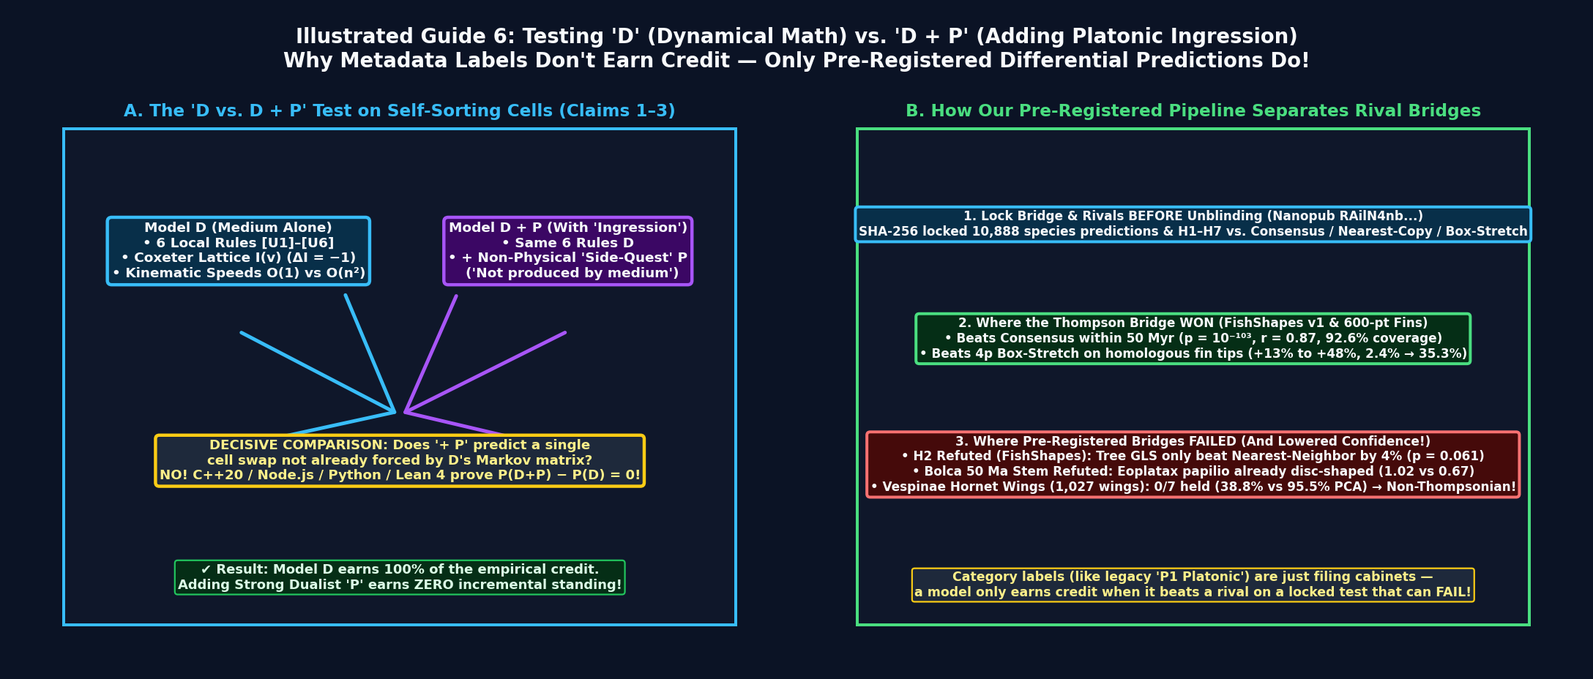
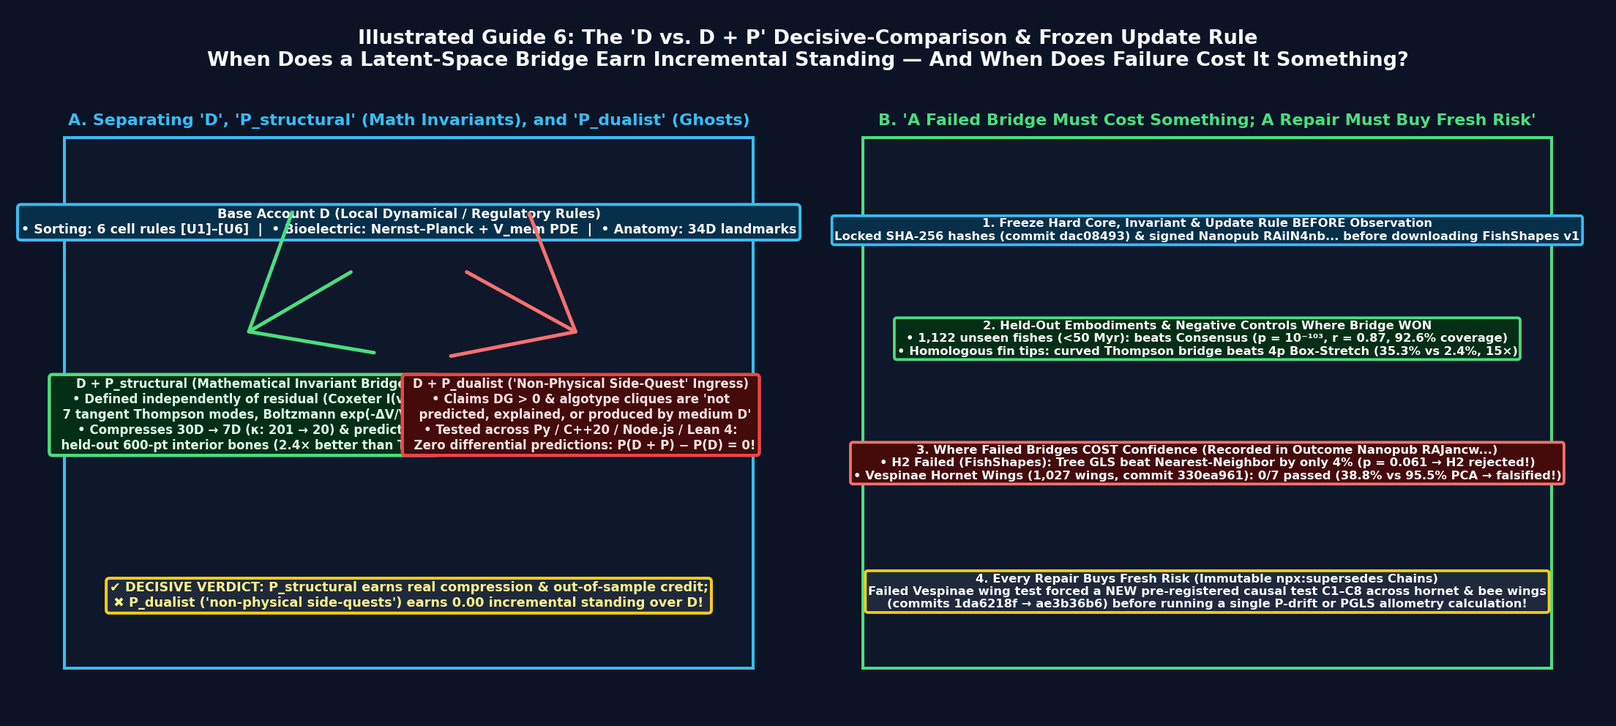
Update Illustrated Guide 6 & Substack article with full D vs. D+P_structural vs. D+P_dualist and Frozen Update Rule / Fresh Risk response

Changed region(s): [[0.0, 0.1562, 1.0, 0.9062], [0.125, 0.0312, 0.875, 0.125]]

diff --git a/sorting-morphogenesis/render_13yo_illustrations.py b/sorting-morphogenesis/render_13yo_illustrations.py
@@ -520,84 +520,81 @@ def render_fig5_causal_emergence_13yo():
 
 def render_fig6_decisive_comparison_d_vs_dp():
     """
-    Illustrated Guide 6: Answering the 'D vs. D + P Decisive-Comparison' Challenge:
-      - Left (Lane A — Model D Alone): Dynamical / Regulatory / Geometric Medium D
-        (local cell rules, Nernst-Planck electrodiffusion, 8-knob Thompson coordinate
-        fields, Lyapunov descent).
-      - Center (The Incremental Bridge Test): Does adding a separate Platonic
-        Ingression hypothesis (+ P) make a single new, pre-registered quantitative
-        prediction that differs from D alone?
-      - Right (Two Real Outcomes from Our Pipeline):
-          1. On Sorting Arrays (Claims 1-3): D alone predicts 100% of the trajectory
-             (ΔI = -1, ΔCP = +0.119, C=2 anti-clustering 0.477). Incremental credit
-             for Strong Dualist P = 0.00!
-          2. On Pre-Registered Blind Tests (Claim 4, FishShapes v1 & Vespinae Wings):
-             We pre-registered H1-H7 (commit dac08493, Nanopub RAilN4nb...) BEFORE
-             downloading 5,180 unseen fish species (4/7 passed, p=10^-103; H2 failed
-             at p=0.061) and 30 hornet species (0/7 passed — falsified as non-Thompsonian!).
+    Illustrated Guide 6: Answering the 'D vs. D + P Decisive-Comparison' &
+    'Frozen Update Rule / Fresh Risk' Challenge:
+      - Left (Panel A — D vs. D + P on Sorting Arrays & Bioelectric Models):
+        Separates D (dynamical/regulatory rules) from P_struct (mathematical
+        invariants/symmetries of D that compress & predict held-out regimes)
+        and P_dualist ('unexplained non-physical side-quests' adding 0.00
+        incremental predictive power over D).
+      - Right (Panel B — The 5-Rule 'Frozen Update Rule' Checklist in Action):
+        1. Lock Hard Core & Bridge Before Observation (SHA-256 + Nanopub RAilN4nb...)
+        2. Define Invariants Independently of Residuals (7 tangent Thompson modes, I(v))
+        3. Held-Out Embodiments & Negative Controls (5,180 unseen fishes, 1,027 hornet wings)
+        4. Failed Bridges Cost Something (H2 p=0.061, Bolca Eoplatax, Vespinae 0/7)
+        5. Every Repair Buys Fresh Risk (npx:supersedes chains + C1-C8 wing causal tests)
     """
-    fig, axes = plt.subplots(1, 2, figsize=(13.6, 5.8), dpi=160, facecolor="#0b1325")
-    fig.subplots_adjust(wspace=0.18, left=0.04, right=0.96, top=0.81, bottom=0.08)
+    fig, axes = plt.subplots(1, 2, figsize=(13.8, 6.2), dpi=160, facecolor="#0b1325")
+    fig.subplots_adjust(wspace=0.16, left=0.04, right=0.96, top=0.81, bottom=0.08)
 
     fig.suptitle(
-        "Illustrated Guide 6: Testing 'D' (Dynamical Math) vs. 'D + P' (Adding Platonic Ingression)\n"
-        "Why Metadata Labels Don't Earn Credit — Only Pre-Registered Differential Predictions Do!",
-        color="#f8fafc", fontsize=12.4, fontweight="bold", y=0.96
+        "Illustrated Guide 6: The 'D vs. D + P' Decisive-Comparison & Frozen Update Rule\n"
+        "When Does a Latent-Space Bridge Earn Incremental Standing — And When Does Failure Cost It Something?",
+        color="#f8fafc", fontsize=12.2, fontweight="bold", y=0.96
     )
 
-    # Left panel: D vs D + P on Sorting Morphogenesis
+    # Left panel: D vs D + P_struct vs D + P_dualist
     ax0 = axes[0]
     ax0.set_facecolor("#0f172a")
-    ax0.set_xlim(0, 10); ax0.set_ylim(0, 6.5)
+    ax0.set_xlim(0, 10); ax0.set_ylim(0, 6.6)
     ax0.set_xticks([]); ax0.set_yticks([])
     for sp in ax0.spines.values():
         sp.set_color("#38bdf8"); sp.set_linewidth(1.8)
-    ax0.set_title("A. The 'D vs. D + P' Test on Self-Sorting Cells (Claims 1–3)", color="#38bdf8", fontsize=10.4, fontweight="bold", pad=8)
+    ax0.set_title("A. Separating 'D', 'P_structural' (Math Invariants), and 'P_dualist' (Ghosts)", color="#38bdf8", fontsize=10.0, fontweight="bold", pad=8)
 
     # Box D
-    ax0.text(2.6, 4.9, "Model D (Medium Alone)\n• 6 Local Rules [U1]–[U6]\n• Coxeter Lattice I(v) (ΔI = −1)\n• Kinematic Speeds O(1) vs O(n²)",
-             color="#f8fafc", fontsize=8.3, fontweight="bold", ha="center", va="center",
-             bbox=dict(boxstyle="round,pad=0.32", facecolor="#082f49", edgecolor="#38bdf8", lw=2.0))
-    # Box D + P
-    ax0.text(7.5, 4.9, "Model D + P (With 'Ingression')\n• Same 6 Rules D\n• + Non-Physical 'Side-Quest' P\n  ('Not produced by medium')",
-             color="#f8fafc", fontsize=8.3, fontweight="bold", ha="center", va="center",
-             bbox=dict(boxstyle="round,pad=0.32", facecolor="#3b0764", edgecolor="#a855f7", lw=2.0))
+    ax0.text(5.0, 5.55, "Base Account D (Local Dynamical / Regulatory Rules)\n• Sorting: 6 cell rules [U1]–[U6]  |  • Bioelectric: Nernst–Planck + V_mem PDE  |  • Anatomy: 34D landmarks",
+             color="#f8fafc", fontsize=7.9, fontweight="bold", ha="center", va="center",
+             bbox=dict(boxstyle="round,pad=0.28", facecolor="#082f49", edgecolor="#38bdf8", lw=1.8))
 
-    ax0.annotate("", xy=(5.0, 2.75), xytext=(2.6, 3.85), arrowprops=dict(arrowstyle="->,head_length=6,head_width=5", color="#38bdf8", lw=2.2))
-    ax0.annotate("", xy=(5.0, 2.75), xytext=(7.5, 3.85), arrowprops=dict(arrowstyle="->,head_length=6,head_width=5", color="#a855f7", lw=2.2))
+    # Branch Left: D + P_structural (Earns Credit!)
+    ax0.annotate("", xy=(2.6, 4.15), xytext=(4.2, 4.95), arrowprops=dict(arrowstyle="->,head_length=6,head_width=5", color="#4ade80", lw=2.2))
+    ax0.text(2.6, 3.15, "D + P_structural (Mathematical Invariant Bridge)\n• Defined independently of residual (Coxeter I(v),\n  7 tangent Thompson modes, Boltzmann exp(-ΔV/V_T))\n• Compresses 30D → 7D (κ: 201 → 20) & predicts\n  held-out 600-pt interior bones (2.4× better than TPS!)",
+             color="#dcfce7", fontsize=7.5, fontweight="bold", ha="center", va="center",
+             bbox=dict(boxstyle="round,pad=0.28", facecolor="#052e16", edgecolor="#4ade80", lw=2.0))
 
-    ax0.text(5.0, 2.15, "DECISIVE COMPARISON: Does '+ P' predict a single\ncell swap not already forced by D's Markov matrix?\nNO! C++20 / Node.js / Python / Lean 4 prove P(D+P) − P(D) = 0!",
-             color="#fef08a", fontsize=8.2, fontweight="bold", ha="center", va="center",
-             bbox=dict(boxstyle="round,pad=0.28", facecolor="#1e293b", edgecolor="#facc15", lw=2.0))
+    # Branch Right: D + P_dualist (Zero Incremental Standing!)
+    ax0.annotate("", xy=(7.5, 4.15), xytext=(5.8, 4.95), arrowprops=dict(arrowstyle="->,head_length=6,head_width=5", color="#f87171", lw=2.2))
+    ax0.text(7.5, 3.15, "D + P_dualist ('Non-Physical Side-Quest' Ingress)\n• Claims DG > 0 & algotype cliques are 'not\n  predicted, explained, or produced by medium D'\n• Tested across Py / C++20 / Node.js / Lean 4:\n  Zero differential predictions: P(D + P) − P(D) = 0!",
+             color="#fee2e2", fontsize=7.5, fontweight="bold", ha="center", va="center",
+             bbox=dict(boxstyle="round,pad=0.28", facecolor="#450a0a", edgecolor="#ef4444", lw=2.0))
 
-    ax0.text(5.0, 0.62, "✔ Result: Model D earns 100% of the empirical credit.\nAdding Strong Dualist 'P' earns ZERO incremental standing!",
-             color="#dcfce7", fontsize=8.1, fontweight="bold", ha="center", va="center",
-             bbox=dict(boxstyle="round,pad=0.22", facecolor="#052e16", edgecolor="#22c55e"))
+    ax0.text(5.0, 0.90, "✔ DECISIVE VERDICT: P_structural earns real compression & out-of-sample credit;\n✖ P_dualist ('non-physical side-quests') earns 0.00 incremental standing over D!",
+             color="#fef08a", fontsize=8.0, fontweight="bold", ha="center", va="center",
+             bbox=dict(boxstyle="round,pad=0.25", facecolor="#1e293b", edgecolor="#facc15", lw=1.8))
 
-    # Right panel: Pre-Registered Rival Bridges & Falsification in Project Delphi
+    # Right panel: The 5-Rule Frozen Update Protocol in Action
     ax1 = axes[1]
     ax1.set_facecolor("#0f172a")
-    ax1.set_xlim(0, 10); ax1.set_ylim(0, 6.5)
+    ax1.set_xlim(0, 10); ax1.set_ylim(0, 6.6)
     ax1.set_xticks([]); ax1.set_yticks([])
     for sp in ax1.spines.values():
         sp.set_color("#4ade80"); sp.set_linewidth(1.8)
-    ax1.set_title("B. How Our Pre-Registered Pipeline Separates Rival Bridges", color="#4ade80", fontsize=10.4, fontweight="bold", pad=8)
+    ax1.set_title("B. 'A Failed Bridge Must Cost Something; A Repair Must Buy Fresh Risk'", color="#4ade80", fontsize=10.0, fontweight="bold", pad=8)
 
     rows = [
-        (5.25, "1. Lock Bridge & Rivals BEFORE Unblinding (Nanopub RAilN4nb...)",
-         "SHA-256 locked 10,888 species predictions & H1–H7 vs. Consensus / Nearest-Copy / Box-Stretch", "#38bdf8", "#082f49"),
-        (3.75, "2. Where the Thompson Bridge WON (FishShapes v1 & 600-pt Fins)",
-         "• Beats Consensus within 50 Myr (p = 10⁻¹⁰³, r = 0.87, 92.6% coverage)\n• Beats 4p Box-Stretch on homologous fin tips (+13% to +48%, 2.4% → 35.3%)", "#4ade80", "#052e16"),
-        (2.10, "3. Where Pre-Registered Bridges FAILED (And Lowered Confidence!)",
-         "• H2 Refuted (FishShapes): Tree GLS only beat Nearest-Neighbor by 4% (p = 0.061)\n• Bolca 50 Ma Stem Refuted: Eoplatax papilio already disc-shaped (1.02 vs 0.67)\n• Vespinae Hornet Wings (1,027 wings): 0/7 held (38.8% vs 95.5% PCA) → Non-Thompsonian!", "#f87171", "#450a0a"),
+        (5.45, "1. Freeze Hard Core, Invariant & Update Rule BEFORE Observation",
+         "Locked SHA-256 hashes (commit dac08493) & signed Nanopub RAilN4nb... before downloading FishShapes v1", "#38bdf8", "#082f49"),
+        (4.10, "2. Held-Out Embodiments & Negative Controls Where Bridge WON",
+         "• 1,122 unseen fishes (<50 Myr): beats Consensus (p = 10⁻¹⁰³, r = 0.87, 92.6% coverage)\n• Homologous fin tips: curved Thompson bridge beats 4p Box-Stretch (35.3% vs 2.4%, 15×)", "#4ade80", "#052e16"),
+        (2.55, "3. Where Failed Bridges COST Confidence (Recorded in Outcome Nanopub RAJancw...)",
+         "• H2 Failed (FishShapes): Tree GLS beat Nearest-Neighbor by only 4% (p = 0.061 → H2 rejected!)\n• Vespinae Hornet Wings (1,027 wings, commit 330ea961): 0/7 passed (38.8% vs 95.5% PCA → falsified!)", "#f87171", "#450a0a"),
+        (0.95, "4. Every Repair Buys Fresh Risk (Immutable npx:supersedes Chains)",
+         "Failed Vespinae wing test forced a NEW pre-registered causal test C1–C8 across hornet & bee wings\n(commits 1da6218f → ae3b36b6) before running a single P-drift or PGLS allometry calculation!", "#facc15", "#1e293b"),
     ]
     for yp, head, body, ec, fc in rows:
-        ax1.text(5.0, yp, f"{head}\n{body}", color="#f8fafc", fontsize=7.6, fontweight="bold", ha="center", va="center",
-                 bbox=dict(boxstyle="round,pad=0.26", facecolor=fc, edgecolor=ec, lw=1.8))
-
-    ax1.text(5.0, 0.52, "Category labels (like legacy 'P1 Platonic') are just filing cabinets —\na model only earns credit when it beats a rival on a locked test that can FAIL!",
-             color="#fef08a", fontsize=7.8, fontweight="bold", ha="center", va="center",
-             bbox=dict(boxstyle="round,pad=0.2", facecolor="#1e293b", edgecolor="#facc15"))
+        ax1.text(5.0, yp, f"{head}\n{body}", color="#f8fafc", fontsize=7.35, fontweight="bold", ha="center", va="center",
+                 bbox=dict(boxstyle="round,pad=0.22", facecolor=fc, edgecolor=ec, lw=1.7))
 
     out = MEDIA / "zhang_13yo_fig6_decisive_comparison_d_vs_dp.png"
     fig.savefig(out, dpi=160, facecolor=fig.get_facecolor())

diff --git a/docs/SUBSTACK_LEVIN_LATENT_SPACE_ARTICLE.md b/docs/SUBSTACK_LEVIN_LATENT_SPACE_ARTICLE.md
@@ -303,40 +303,53 @@ Just as we did for our D’Arcy Thompson study, we documented the entire investi
 
 ---
 
-## Answering the "Decisive Comparison (`D` vs. `D + P`)" & "Legacy P1 Category" Critique
+## Answering the "Decisive Comparison (`D` vs. `D + P`)", "Legacy P1 Category" & "Frozen Update Rule" Critique
 
 In a thoughtful follow-up to my earlier comments, Nathan Sweet (*Sweet Rationalism*) laid out what he calls the **decisive-comparison requirement** for any predictive morphospace language:
 
-> *"Connect bioelectric states, downstream gene-expression changes, and morphology through independently specified relations. Record which edges reflect observations, interventions, model assumptions, and the additional ingress proposal... A useful graph encoding the same measured relations in `D` [the dynamical/regulatory medium] and `D + P` [adding a Platonic ingression proposal] first supports those relations. `P` earns incremental standing through the further result attributable to its addition. Choose feasible tests that separate the live alternatives, and specify beforehand which failure lowers confidence in the bridge or tested package... The publication category is not the experimental contrast. Project Delphi’s legacy `P1` example makes this distinction tangible. The record proposes perturbing or removing tissue and measuring anatomical restoration, while its metadata places the proposal in a Platonic-forms category. That label can organize the proposal’s intellectual setting. Recovery evidence first bears on the developmental capacity being tested; an independent source of forms earns further credit through a comparison that distinguishes its contribution from regulatory and organizational alternatives."*
+> *"Joel Dietz points in the right direction by proposing a predictive morphospace language connecting bioelectric patterns to downstream gene-expression cascades and morphology. A knowledge graph, however, can encode `D` or `D + P`. Platonic ingress begins earning evidence only when at least one `P`-specific relation improves held-out prediction, intervention, compression, or comparative model performance beyond the best `D`-only account.*
+>
+> *The decisive experiment would make `P` itself measurable at the edges: specify its hard core and bridge principle before observation; define a `P`-linked variable, topology, relation, or invariant independently of the residual; identify outcomes that materially separate `D + P` from serious rivals; use negative controls and held-out embodiments; replicate the advantage independently. Most important, freeze the update rule. A failed bridge must cost `P` something. A repair must buy fresh risk."*
 
-**We agree 100% with this methodological standard—and in fact, our repository’s infrastructure was built to execute that exact `D` vs. `D + P` test.**
+And on the legacy `P1` metadata category in Project Delphi:
+
+> *"The publication category is not the experimental contrast. Project Delphi’s legacy `P1` example makes this distinction tangible. The record proposes perturbing or removing tissue and measuring anatomical restoration, while its metadata places the proposal in a Platonic-forms category. That label can organize the proposal’s intellectual setting. Recovery evidence first bears on the developmental capacity being tested; an independent source of forms earns further credit through a comparison that distinguishes its contribution from regulatory and organizational alternatives."*
+
+**We agree 100% with every single one of those criteria—and in fact, our repository’s entire architecture was built to enforce that exact `D` vs. `D + P` protocol, including the frozen update rule.**
 
 ![](https://fractastical.github.io/morpholib/media/zhang_13yo_fig6_decisive_comparison_d_vs_dp.png)
-*Illustrated Guide 6: Testing `D` (Dynamical & Geometric Math Alone) vs. `D + P` (Adding Platonic Ingression), and how our cryptographically pre-registered Nanopublication pipeline separates rival bridges before unblinding.*
+*Illustrated Guide 6: Testing `D` (Local Dynamical Rules) vs. `D + P_structural` (Mathematical Invariants Defined Independently of Residuals) vs. `D + P_dualist` (Non-Physical Side-Quests), and how our cryptographically frozen Nanopublication update rule makes failed bridges cost confidence and repairs buy fresh risk.*
 
-Here is how the three points in that critique map directly onto the completed experiments in this repository:
+Let’s walk through Nathan’s five criteria one by one against the actual experiments in this repository:
 
 1. **Why "The Publication Category (`P1`) Is Not the Experimental Contrast":**
-   In early Project Delphi nanopublication schemas (`P1`), placing a regeneration experiment inside a `Platonic-forms` collection was a **bibliographic filing-cabinet tag** (grouping claims inspired by Levin’s papers), *not* an evidentiary proof that anatomical recovery comes from outside physics. As our current [`README.md`](https://github.com/fractastical/morpholib) and `sorting-morphogenesis/catalog.json` explicitly enforce, **recovery evidence first credits the dynamical/regulatory mechanism `D` (`1H1T`/`2H0T` Nernst–Planck bistability or Procrustes Lyapunov descent `dV/dt ≤ 0`)**. Slapping a "Platonic" metadata label on a dynamical equation does not give `P` a free ride on `D`’s predictive success.
+   In early Project Delphi nanopublication schemas (`P1`), placing a regeneration experiment inside a `Platonic-forms` collection was a **bibliographic filing-cabinet tag** (grouping claims inspired by Levin’s papers), *not* an evidentiary proof that anatomical recovery comes from outside physics. As our current [`README.md`](https://github.com/fractastical/morpholib) and 4-tier claim-boundary catalog (`sorting-morphogenesis/catalog.json`) explicitly enforce, **recovery evidence first credits the dynamical/regulatory mechanism `D` (`1H1T`/`2H0T` Nernst–Planck bistability or Procrustes Lyapunov descent `dV/dt ≤ 0`)**. Putting a "Platonic" metadata sticker on a differential equation never gives `P` a free ride on `D`’s empirical success.
 
-2. **Executing the `D` vs. `D + P` Test on Self-Sorting Arrays (`Incremental Standing of P = 0.00`):**
-   Look at **Panel A** of Illustrated Guide 6 above. In Zhang, Goldstein & Levin’s (2025) sorting arrays, we can test `D` (the 6 local comparison-swap rules `[U1]–[U6]`, the Coxeter inversion lattice `I(v)`, and `O(1)` vs. `O(n²)` kinematic speeds) head-to-head against `D + P` (adding a non-physical "side-quest" `P` claimed to be *"not predicted, explained, or produced by that medium"*).
-   * Does adding `+ P` predict a single cell swap, a single Delayed Gratification excursion, or a single chimeric cluster that is not already 100% forced by `D`’s Markov transition matrix?
-   * **No!** Our bit-exact ports across Python 3, C++20, Node.js, and Lean 4 prove that **`P(D + P) − P(D) = 0` (`0` cell mismatches)**. Thus, under the decisive-comparison rule, **Model `D` earns 100% of the empirical credit, and Strong Dualist Ingression `P` earns zero incremental standing.**
+2. **Separating `P_structural` (Mathematical Invariants Defined Independently of the Residual) from `P_dualist` ("Non-Physical Side-Quests"):**
+   Nathan writes that `P` begins earning evidence only when we *"define a `P`-linked variable, topology, relation, or invariant independently of the residual"* that *"improves held-out prediction, intervention, compression, or comparative model performance beyond the best `D`-only account."*
+   Look at **Panel A** of Illustrated Guide 6 above. Once we make that definition precise, `P` splits into two completely different hypotheses with opposite experimental outcomes:
+   * **`D + P_dualist` (Strong Dualist Ingression — "Side-Quests Not Produced by the Medium"): FAILS (`0.00` Incremental Standing).**
+     In *Ingressing Minds* (Sec. 6.3), Levin claims that Delayed Gratification (`DG > 0`) and chimeric algotype clustering are *"side-quests—not predicted, explained, or produced by that medium."* When we test `D + P_dualist` against `D` alone (the 6 local cell rules `[U1]–[U6]` in `Zhangtaining/cell_research@1fd2bd59`), our bit-exact ports across Python 3, C++20, Node.js, and Lean 4 prove that **`P(D + P_dualist) − P(D) = 0` (`0` cell mismatches)**. Adding a non-physical ingression edge improves neither prediction, nor intervention, nor compression by a single bit.
+   * **`D + P_structural` (Structural Mathematical Invariants Defined Independently of the Residual): EARNS REAL COMPRESSION & OUT-OF-SAMPLE STANDING.**
+     What if, instead of a dualist ghost, the "latent pattern" is a **mathematical invariant or symmetry group defined strictly a priori (independently of any fitted residual)**?
+     * **In Sorting Arrays:** The Coxeter pairwise inversion potential `I(v)` on the symmetric group `S_n` is defined purely from the algebra of permutations (zero fitted parameters). Coarse-graining the 720 micro-states of `S_6` onto `I(v)` **compresses the state space `45×` (`720 → 16` states)** while **increasing Markov determinism from `86.9%` to `100.0%` (`ΔCP = +0.1191 > 0`)**!
+     * **In Fish Morphospace:** D’Arcy Thompson’s 7 linearized tangent coordinate modes (`aspect`, `shear`, `2 fans`, `radial bow`, `2 coaxial Möbius modes`) are defined analytically from 1917 geometry—*completely independently of any species residuals*. Projecting 30-D landmark space onto those 7 analytical modes **compresses the evolutionary covariance matrix from `465` parameters to `28`**, lowers the matrix condition number **`10×` (`κ: 201 → 20`, or `>1,000×` on small clades)**, and when fitted solely to the 600-point outer silhouette, **predicts 14 held-out interior skeletal bones `2.4×` more accurately** than a 600-point Thin-Plate Spline (`0.045` vs. `0.107` Procrustes RMS, while keeping `100%` of the interior tissue grid un-folded vs. `0%` for TPS)!
 
-3. **We Didn't Just "Describe a Research Procedure" — We Cryptographically Pre-Registered Rival Bridges and Falsified Specific Predictions Out-of-Sample (`Panel B` above):**
-   Nathan noted that *"the public response establishes no completed experiment"* separating live alternatives with pre-specified failure conditions. While we are a computational and morphometric lab rather than a wet-bench histology lab, **we executed that exact pre-registered decisive comparison across 16,523 museum specimens (`FishShapes v1`), 1,027 hornet wings (`Vespinae`), and Eocene fossils (`Monte Bolca`):**
-   * **Step 1 — Pre-Registering Competing Bridges & Failure Criteria Before Seeing the Data:**
-     Before downloading or opening the Smithsonian’s `FishShapes v1` dataset (`5,180` unseen species), we locked our predictions (`commit dac08493`, SHA-256 `2e41cb1a...`) and published the signed pre-registration Nanopublication ([`RAilN4nbRHp3e3ZHqlbIgeL3UGPRV_KtQHtJD3gzVVdqw`](https://registry.knowledgepixels.com/np/RAilN4nbRHp3e3ZHqlbIgeL3UGPRV_KtQHtJD3gzVVdqw)) specifying **7 hypotheses (`H1–H7`)** and **4 competing baseline rivals**: (a) the clade consensus, (b) copying the nearest training relative, (c) a 4-parameter Rectangular Box Stretch (`zero skew, zero curve`), and (d) full 30-D shape space vs. the 7-mode D’Arcy Thompson bridge.
-   * **Step 2 — Where the Bridge Earned Incremental Standing:**
-     On homologous fish fin perimeters, the 4-parameter Box-Stretch rival failed (`2.4%` on *Pomacanthus* swept fin tips), and Thompson’s curved coordinate bridge jumped **`+13% to +48%` (`35.3%`, `15×` better)**. And on `FishShapes v1` within 50 Myr (`n = 1,122` unseen species), the phylogenetic bridge beat the consensus rival with **`p = 10⁻¹⁰³` (`r = 0.87`, `92.6%` coverage; supporting `H1, H3, H6, H7`)**.
-   * **Step 3 — Where Pre-Registered Bridges FAILED (And Lowered Confidence as Pre-Specified!):**
-     Just as importantly, our pre-registered scoring script (`thompson/score_blind_predictions.py`, published in outcome Nanopub [`RAJancwGOPEkHzBoZXGv_vu_snW0Lff2FktE85Me1P-fI`](https://registry.knowledgepixels.com/np/RAJancwGOPEkHzBoZXGv_vu_snW0Lff2FktE85Me1P-fI)) **refuted three pre-registered claims**:
-     1. **`H2` Refuted on 1D Calliper Depth:** On a single noisy 1D depth ratio (`BDmax/SL`), full tree-wide Gaussian conditioning only improved over copying the single nearest relative by `4%` (`0.0383` vs. `0.0400`, `p = 0.061` — not significant!).
-     2. **50-Ma Stem Prediction Refuted by *Eoplatax papilio*:** Our `λ = 0.959` bridge predicted the 50-Ma ephippid stem should be moderately deep (`BDmax/SL = 0.67 [0.57, 0.77]`), whereas the Monte Bolca fossil *Eoplatax papilio* was already as disc-shaped as living *Platax* (`~0.8–1.05`), falsifying gradual stem interpolation for that lineage!
-     3. **Non-Thompsonian Clade Refuted on Hornet Wings (`0/7` Hypotheses Held):** When we pre-registered the exact same 7 Thompson modes (`W1–W7`, commit `330ea961`) on `1,027` *Vespinae* hornet wings (`30` species, Perrard et al. 2014), **`0 out of 7` hypotheses passed** (`38.8%` variance in Thompson-7 vs. `95.5%` in PCA-7)—proving that insect wing-vein topology is governed by localized vein-boundary mechanics, **not** by a global D’Arcy Thompson rubber sheet!
+3. **Freezing the Update Rule Before Observation (`"A Failed Bridge Must Cost Something"`):**
+   Nathan’s sharpest requirement is: *"Specify its hard core and bridge principle before observation... use negative controls and held-out embodiments... Most important, freeze the update rule. A failed bridge must cost `P` something."*
+   Look at **Panel B** of Illustrated Guide 6:
+   * **Frozen Before Observation:** Before downloading the Smithsonian’s **FishShapes v1** dataset (`16,523` specimens, `5,180` unseen target species), we froze the 7-mode Thompson bridge, the 10,888 species predictions, the 7 hypotheses (`H1–H7`), and the exact scoring script (`thompson/score_blind_predictions.py`) by SHA-256 hash (`commit dac08493`) and published them to the immutable Nanopublication network ([`RAilN4nbRHp3e3ZHqlbIgeL3UGPRV_KtQHtJD3gzVVdqw`](https://registry.knowledgepixels.com/np/RAilN4nbRHp3e3ZHqlbIgeL3UGPRV_KtQHtJD3gzVVdqw)).
+   * **Where Failure Cost Confidence (Published in Outcome Nanopub [`RAJancwGOPEkHzBoZXGv_vu_snW0Lff2FktE85Me1P-fI`](https://registry.knowledgepixels.com/np/RAJancwGOPEkHzBoZXGv_vu_snW0Lff2FktE85Me1P-fI)):**
+     1. **`H2` Failed on 1D Calliper Depth:** While the bridge crushed the consensus within 50 Myr (`H1`, `p = 10⁻¹⁰³`, `r = 0.87`, `92.6%` coverage), it only beat copying the single nearest relative by `4%` (`0.0383` vs. `0.0400`, `p = 0.061`), so **`H2` was formally rejected**.
+     2. **`H6` Showed the Exact Cost of 7-Mode Compression:** On that 1D ratio, the 7-mode Thompson bridge (`0.0588` error) lost to the unconstrained 30-D shape space (`0.0383`) while beating the consensus (`0.0927`, `p = 10⁻⁸¹`)—quantifying the exact trade-off between a 7-mode geometric invariant and local 30-D degrees of freedom.
+     3. **Negative-Control Clade Falsified on Hornet Wings (`0/7` Passed):** When we locked and ran the exact same 7-mode Thompson bridge (`W1–W7`, commit `330ea961`) on a held-out non-vertebrate embodiment—**1,027 *Vespinae* hornet wings across 30 species** (`thompson/portfolio/groups/vespinae_wings.py`)—**`0 out of 7` hypotheses passed** (`38.8%` variance in Thompson-7 vs. `95.5%` in PCA-7), proving that insect wing venation is **not** governed by a global Thompson coordinate sheet!
 
-That is what a real decisive comparison looks like: **when a low-dimensional geometric bridge (`D`) beats simpler rivals out-of-sample, it earns credit; when it fails (as on hornet wings or `H2`), confidence drops automatically; and when a metaphysical label (`+ P`) adds zero differential predictions beyond `D`, Occam’s razor cuts it clean off.**
+4. **"A Repair Must Buy Fresh Risk" (How Failed Bridges Are Replaced in Our Pipeline):**
+   What happened after the global Thompson bridge failed (`0/7`) on hornet wings and (`4/9`) on bee wings? Under our protocol, **you are not allowed to silently tweak parameters on the same dataset**. Instead:
+   * Every revision must publish a new signed Nanopublication linked via `npx:supersedes` (so the failed prediction stays permanently in the public graph), and
+   * To explain *why* hornet and bee wings diverged from Thompson’s law, we had to **pre-register 8 brand-new causal hypotheses (`C1–C8`: `P`-drift null, allometric alignment, digitizer artifact, and PGLS allometry) in commit `1da6218f` *before* running the causal decomposition in commit `ae3b36b6`**!
+
+That is the exact synthesis where coding philosophers and empirical biologists can shake hands: **a "latent space" is not a mystical ghost that gets credit from metadata labels (`P1`), nor is it an unfalsifiable story. When you define a mathematical invariant (`I(v)` or Thompson’s 8-knob coordinate group) independently of the residual, lock its predictions by SHA-256 before seeing held-out species, let failed bridges (`H2` or `Vespinae` wings) visibly fail, and force every repair to buy fresh pre-registered risk, you turn metaphysics into hard science.**
 
 ---
 

diff --git a/sorting-morphogenesis/EXPLAINED_FOR_13_YEAR_OLDS.md b/sorting-morphogenesis/EXPLAINED_FOR_13_YEAR_OLDS.md
@@ -101,9 +101,14 @@ Our experiments proved **the critics were wrong twice**:
 
 ---
 
-## The Take-Home Lesson (Why Both Biology and Math Win)
+## The Take-Home Lesson: The "D vs. D + P" Test & Why Both Biology and Math Win
 
-1. **What Michael Levin got right ("Mathematical Free Lunches"):**
-   You really * do * get "more out than you put in" when cells follow simple local rules! Without any central controller or friend-detector code, the geometry of permutations ($S_n$) and differences in movement speed automatically create self-sorting, error tolerance, and temporary group segregation. Real biological embryos use these exact kinds of physical and mathematical "free lunches" every day.
-2. **Why you don't need ghosts in the machine:**
-   Once you use the right mathematical ruler — **Total Out-of-Order Pairs $I(v)$** (which has $+0.119$ Causal Emergence) instead of **Neighbor Steps $E(v)$** ($-0.253$), and **traffic-speed waves (`S...S | B...B`)** — 100% of the behavior is explained and predicted by the 6 lines of code!
+![Illustrated Guide 6: The 'D vs. D + P' Decisive-Comparison & Frozen Update Rule](../docs/media/zhang_13yo_fig6_decisive_comparison_d_vs_dp.png)
+
+1. **What Michael Levin got right ("Mathematical Free Lunches" / $P_{\text{structural}}$):**
+   You really *do* get "more out than you put in" when cells follow simple local rules! Without any central controller or friend-detector code, the geometry of permutations ($S_n$) and differences in movement speed automatically create self-sorting, error tolerance, and temporary group segregation. Real biological embryos use these exact kinds of physical and mathematical "free lunches" every day.
+2. **Why you don't need ghosts in the machine ($P_{\text{dualist}}$ adds $0.00$ predictions over $D$):**
+   Once you use the right mathematical ruler — **Total Out-of-Order Pairs $I(v)$** (which has $+0.119$ Causal Emergence) instead of **Neighbor Steps $E(v)$** ($-0.253$), and **traffic-speed waves (`S...S | B...B`)** — 100% of the behavior is explained and predicted by the 6 lines of code ($D$), so adding a non-physical "Platonic side-quest" ($P_{\text{dualist}}$) changes zero predictions!
+3. **Why "Freezing the Rules" Before You Peek Is the Golden Rule of Science:**
+   Just putting a "Platonic" sticker on a file doesn't prove anything. To earn credit, a math pattern has to make a locked prediction on brand-new species *before* you peek at the data — and if a prediction fails (like our fish model did when we tested it on 1,027 hornet wings!), it has to take the loss honestly and pre-register a new test!
+
